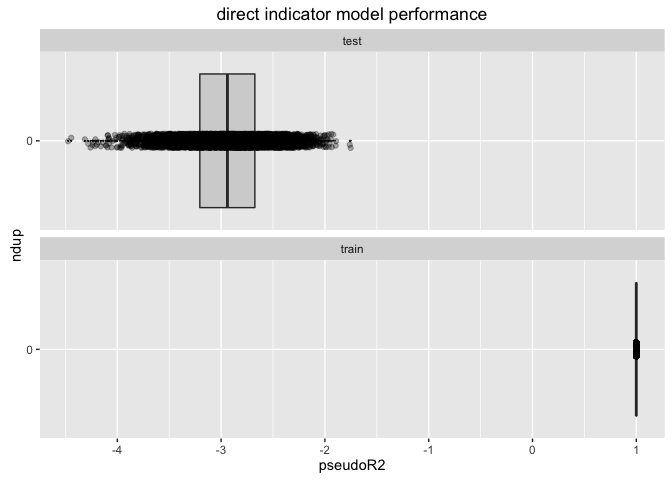
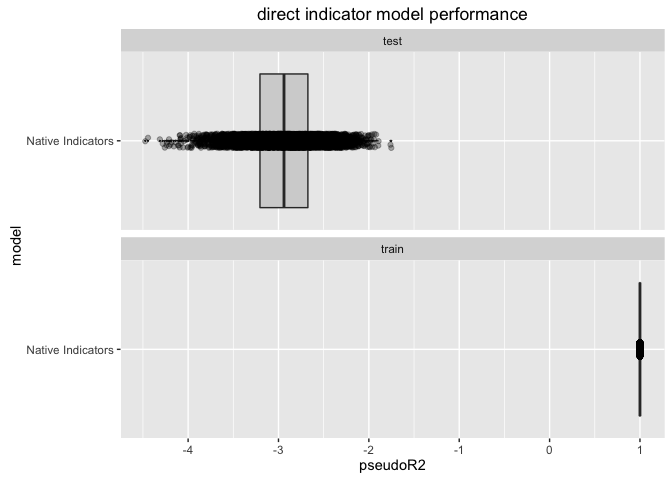
fix axis label

diff --git a/ShowDirect.html b/ShowDirect.html
@@ -65,7 +65,7 @@ d$ndup &lt;-<span class="st"> </span><span class="kw">factor</span>(d$ndup,<span
 <pre><code>## [1] 0.1</code></pre>
 <div class="sourceCode"><pre class="sourceCode r"><code class="sourceCode r"><span class="kw">print</span>(<span class="kw">mean</span>(d$novelRows&gt;<span class="dv">0</span>))</code></pre></div>
 <pre><code>## [1] 4e-04</code></pre>
-<div class="sourceCode"><pre class="sourceCode r"><code class="sourceCode r"><span class="kw">print</span>(WVPlots::<span class="kw">ScatterBoxPlotH</span>(d,<span class="st">&#39;pseudoR2&#39;</span>,<span class="st">&#39;ndup&#39;</span>,<span class="st">&#39;direct indicator model performance&#39;</span>) +
+<div class="sourceCode"><pre class="sourceCode r"><code class="sourceCode r"><span class="kw">print</span>(WVPlots::<span class="kw">ScatterBoxPlotH</span>(d,<span class="st">&#39;pseudoR2&#39;</span>,<span class="st">&#39;model&#39;</span>,<span class="st">&#39;direct indicator model performance&#39;</span>) +
 <span class="st">         </span><span class="kw">facet_wrap</span>(~data,<span class="dt">ncol=</span><span class="dv">1</span>))</code></pre></div>
 <div class="figure">
 <img src="ShowDirect_files/figure-markdown_github/plot-1.png" alt="" />

diff --git a/ShowDirect.md b/ShowDirect.md
@@ -84,7 +84,7 @@ print(mean(d$novelRows>0))
     ## [1] 4e-04
 
 ``` r
-print(WVPlots::ScatterBoxPlotH(d,'pseudoR2','ndup','direct indicator model performance') +
+print(WVPlots::ScatterBoxPlotH(d,'pseudoR2','model','direct indicator model performance') +
          facet_wrap(~data,ncol=1))
 ```
 
